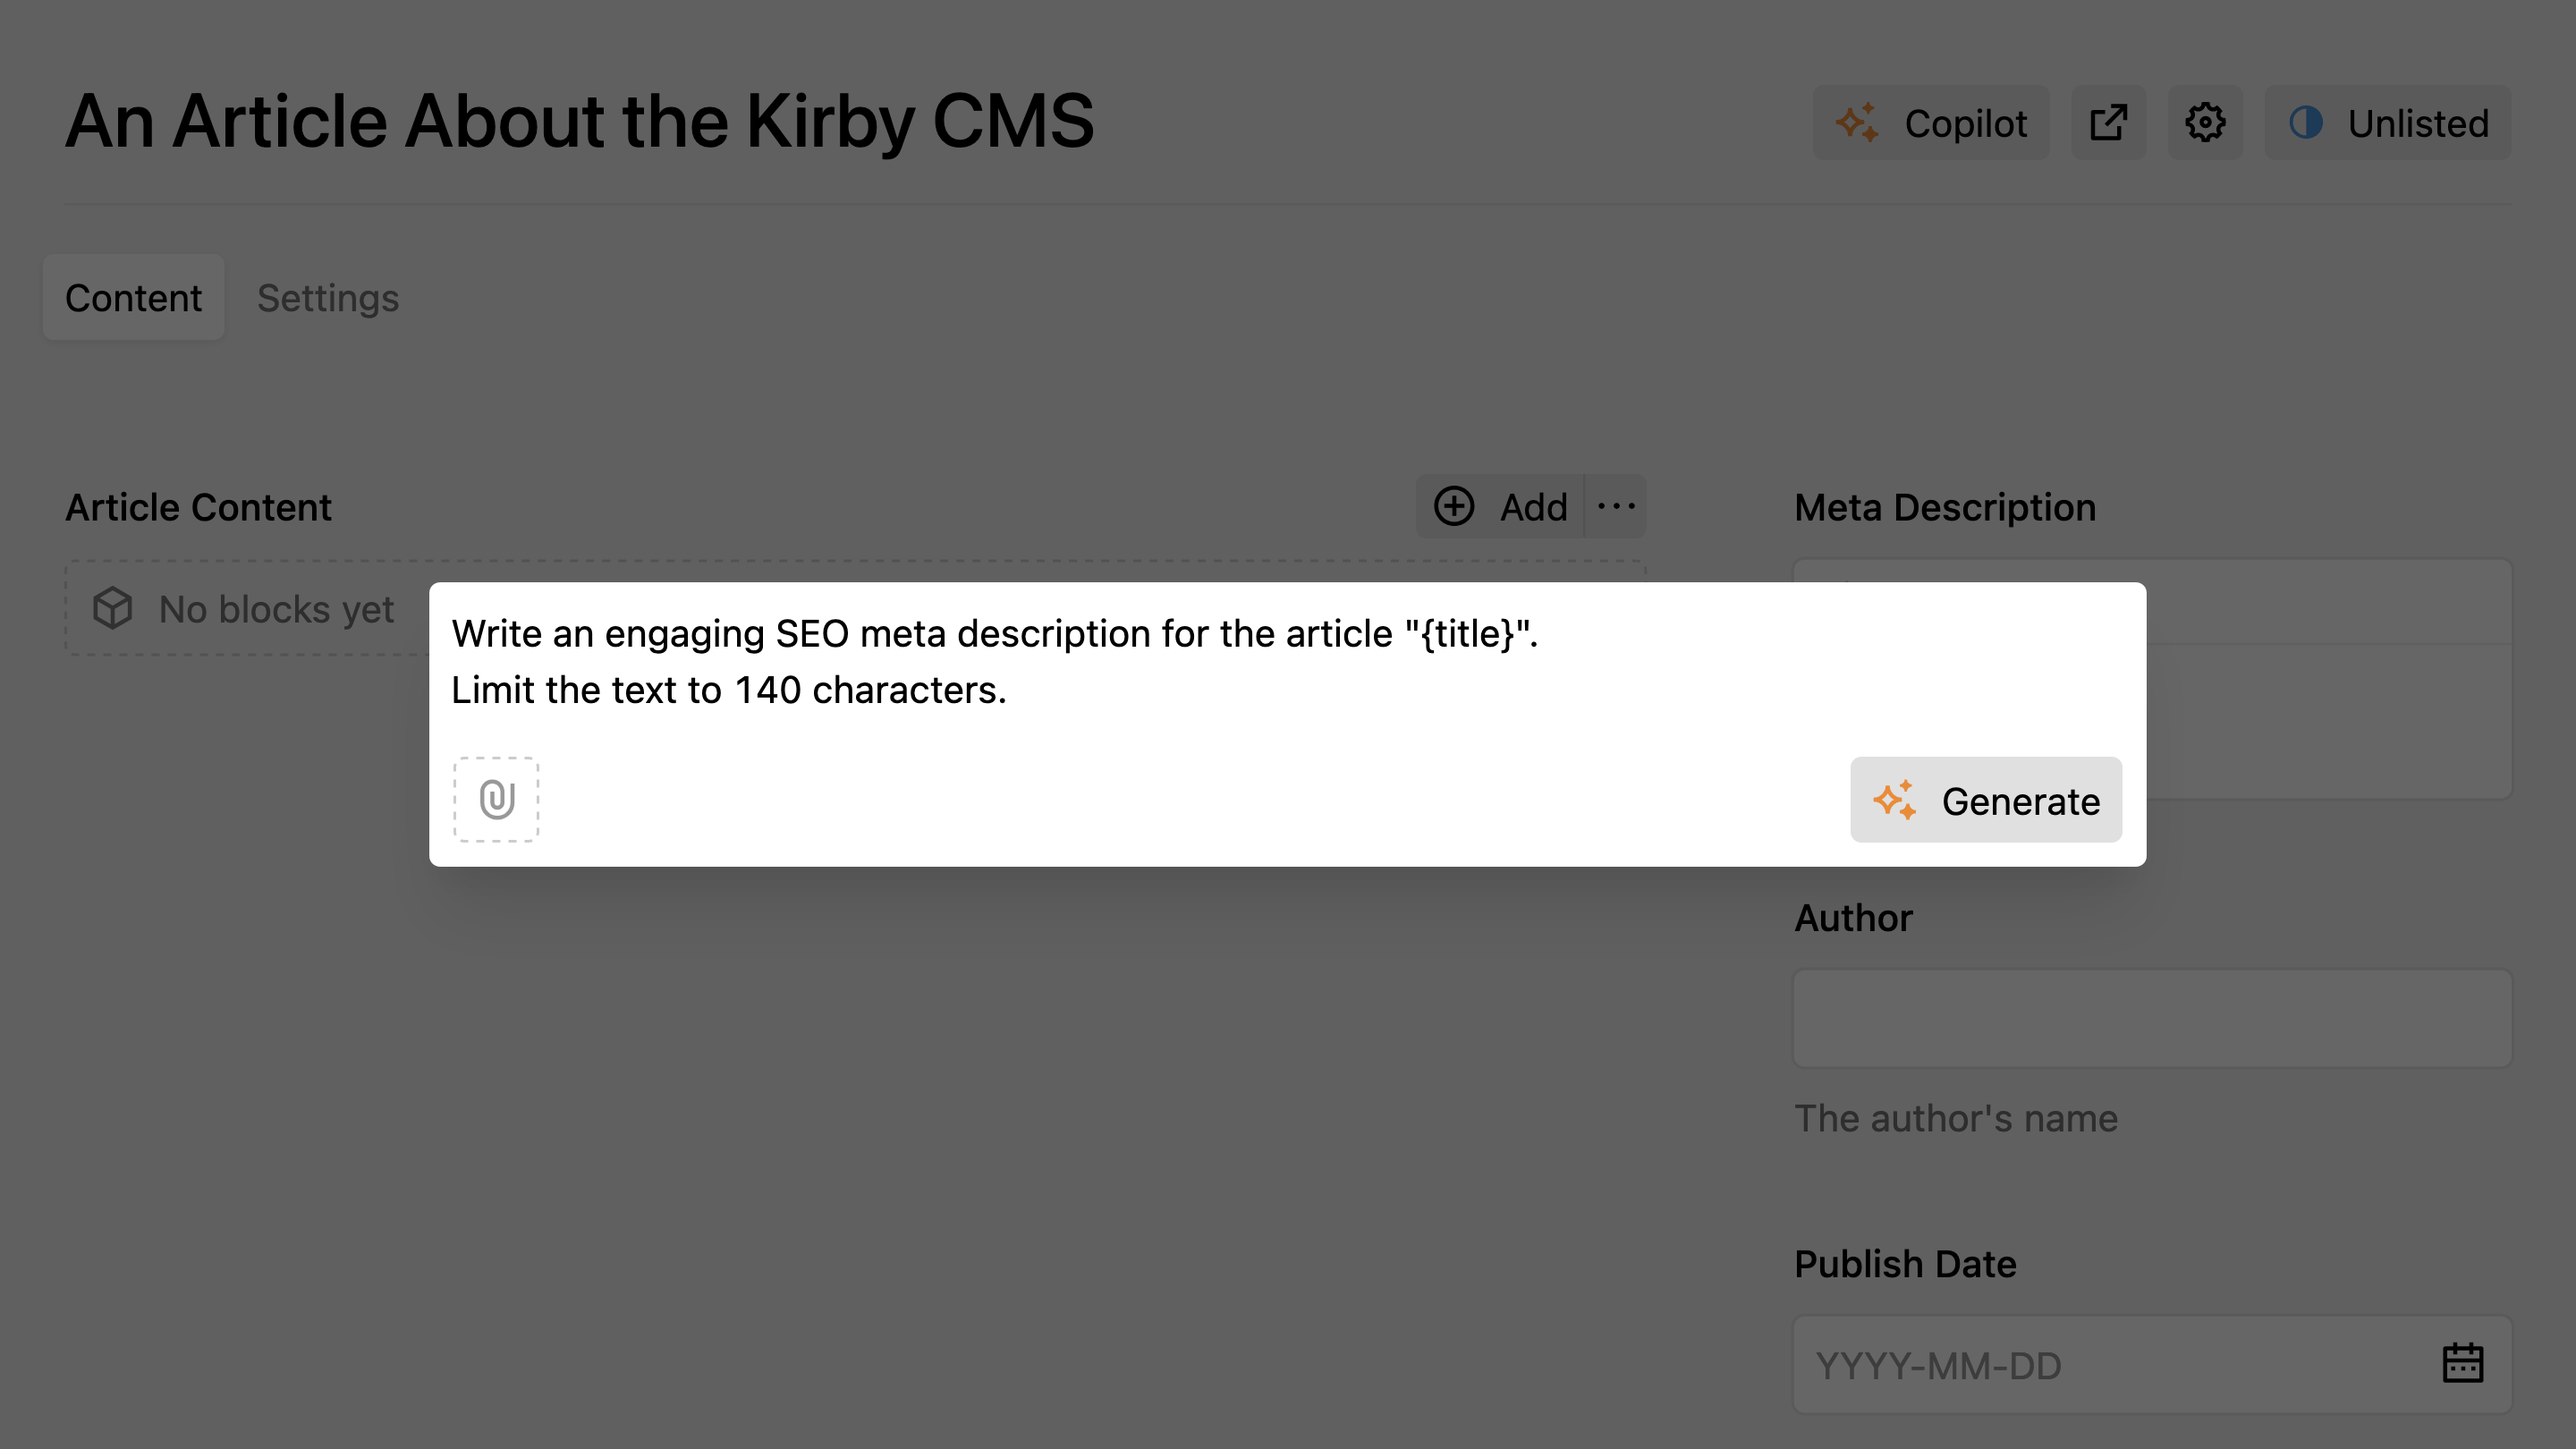
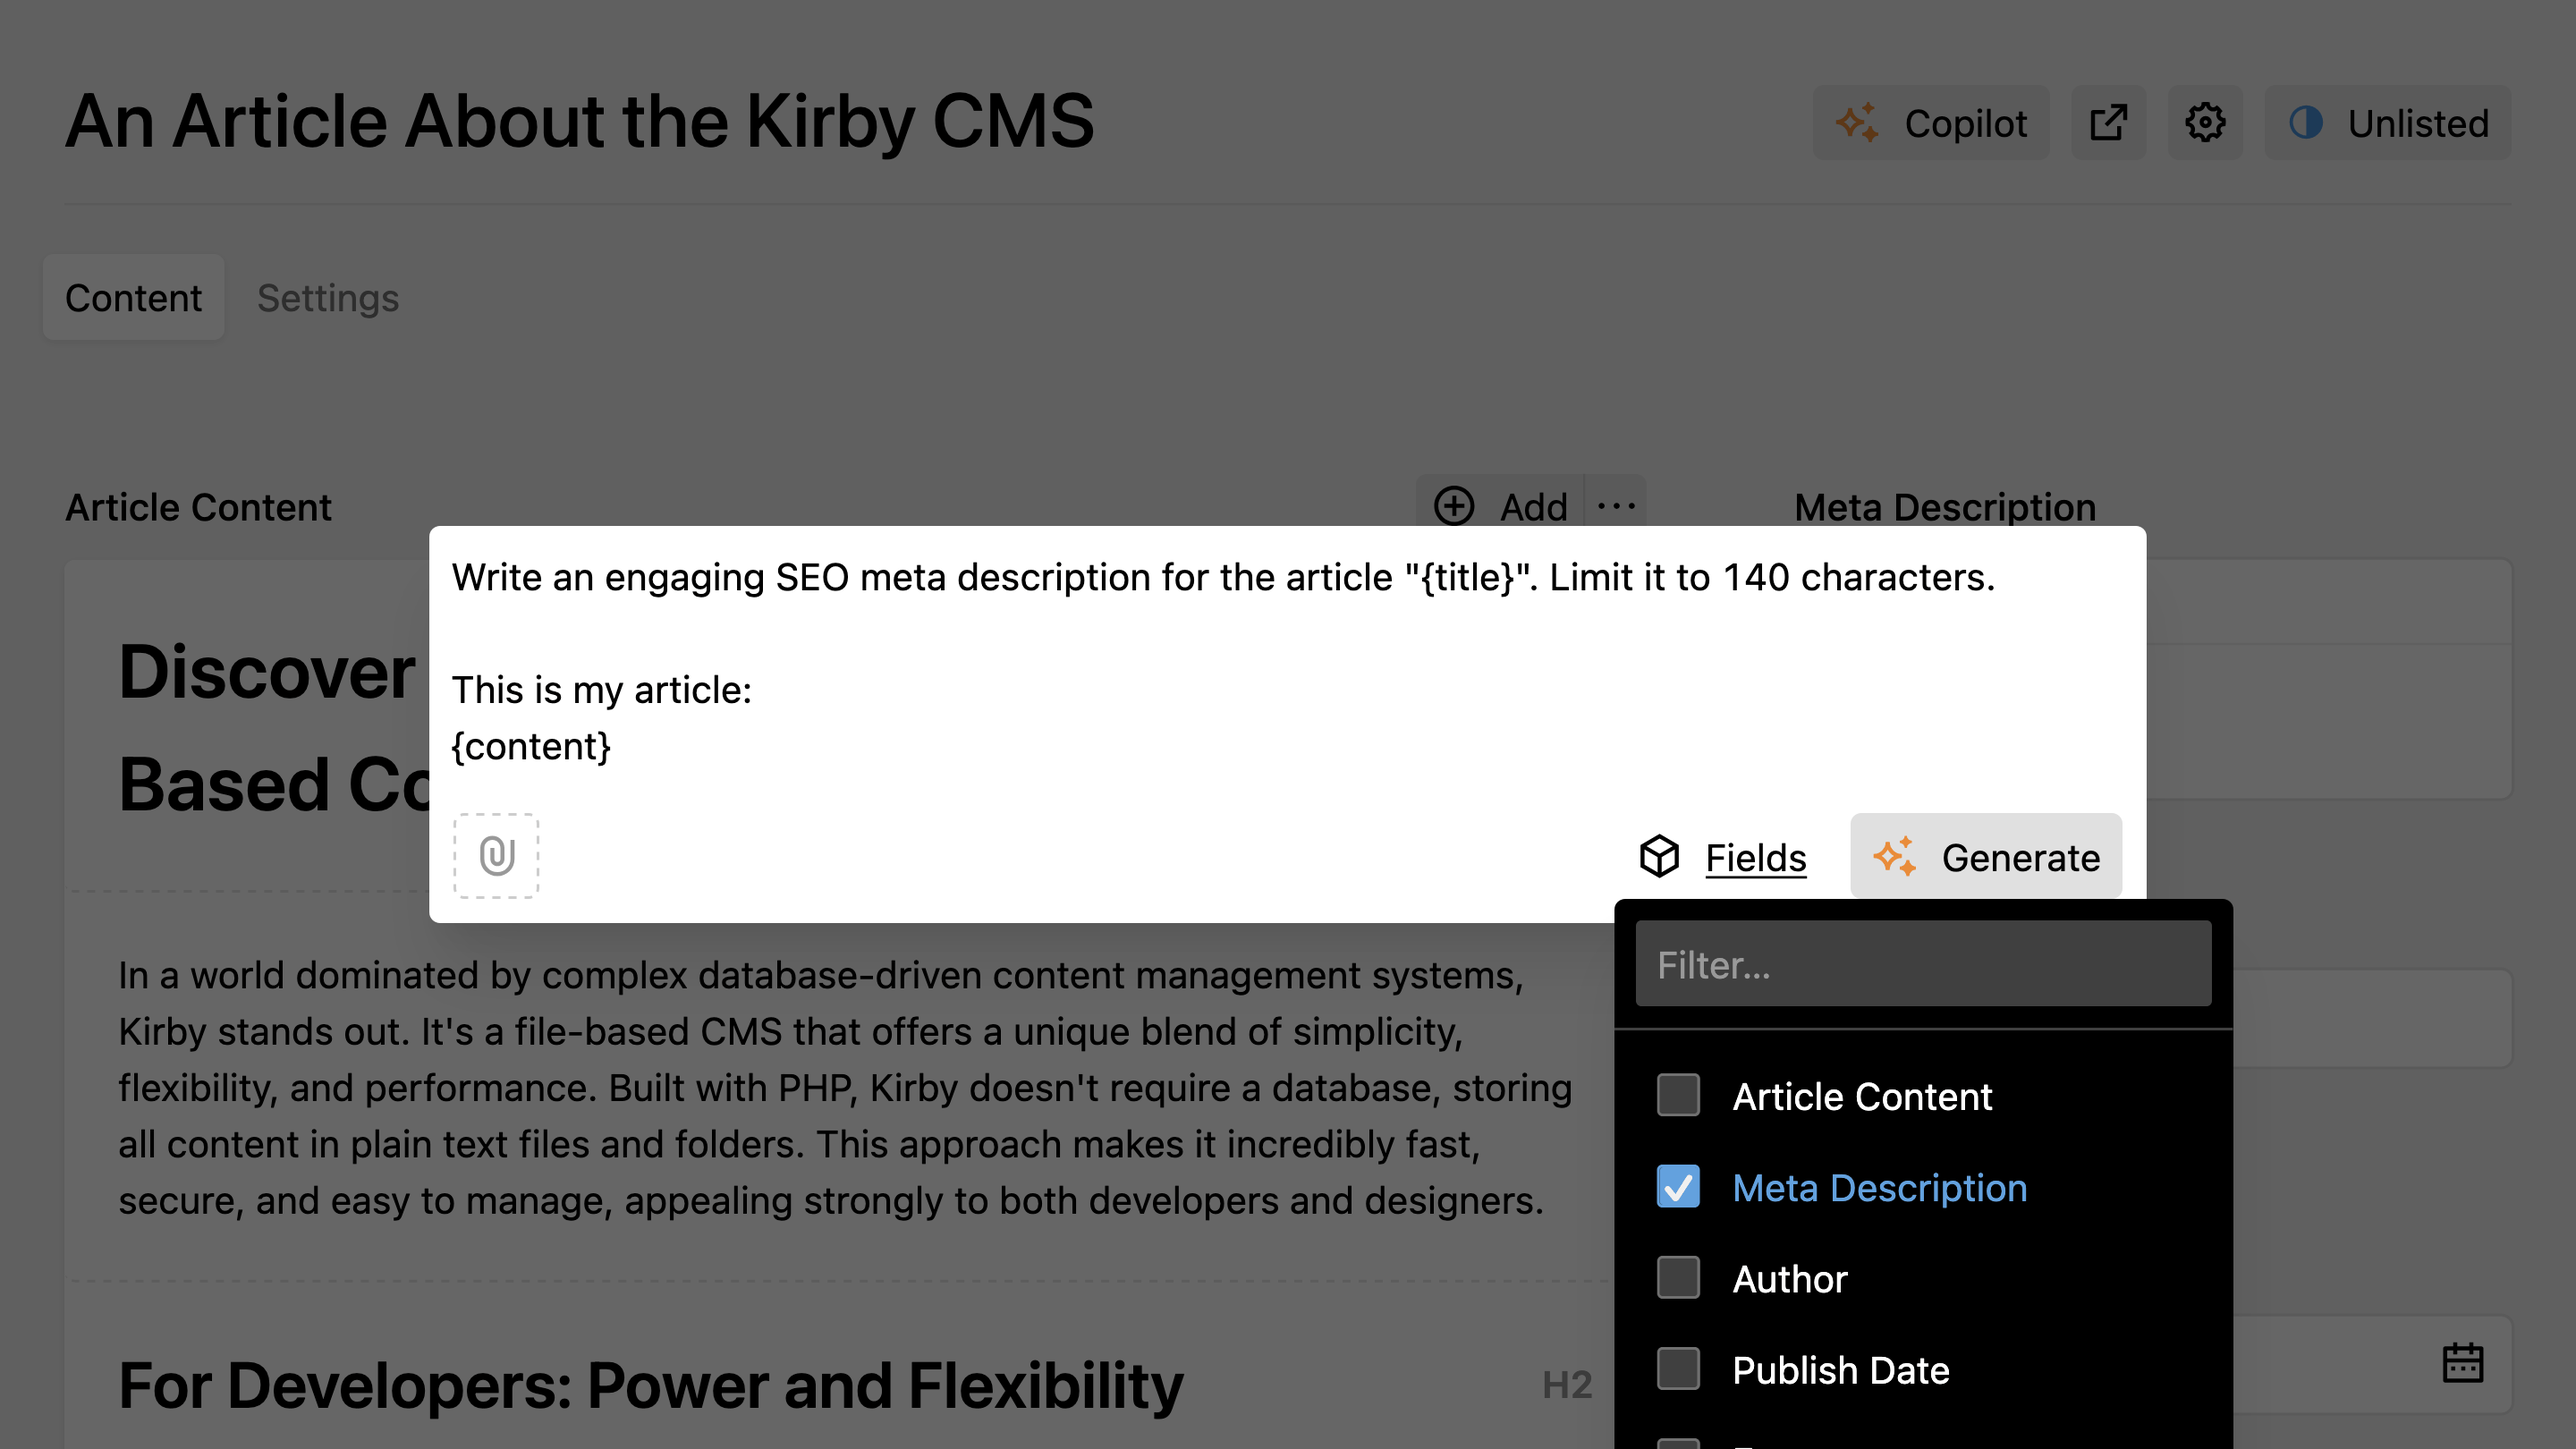
docs: enhance Copilot field context placeholders documentation

Changed region(s): [[0.0312, 0.3395, 0.875, 1.0], [0.0312, 0.9259, 0.4688, 0.9877]]

diff --git a/content/1.docs/3.copilot/3.usage/4.placeholders.md b/content/1.docs/3.copilot/3.usage/4.placeholders.md
@@ -7,11 +7,40 @@ Context is key to a good user prompt. The more context you can provide, the bett
 
 ## Placeholders in User Prompts
 
-Kirby Copilot provides all fields from the same Kirby model as placeholders in user prompts. This allows you to include additional information in the prompt. Wrap the field name in curly braces to use it as a placeholder: `{field}`.
+Kirby Copilot provides all fields from the same Kirby model as placeholders in user prompts. This allows you to include additional information in the prompt. To use a field name as a placeholder, wrap it in curly braces: `{field}`. Placeholders are replaced with the actual field values when the user submits the prompt.
 
-### Example Setup
+::tip
+If the field value is not a primitive (e.g. a string, number, or boolean), it will be encoded as JSON before being used as a placeholder. AI models are pretty good at understanding structured data, such as JSON.
+::
 
-For example, suppose your page contains a `writer` field with the main content and a `textarea` field for the meta description:
+Before the user prompt above is sent to the AI model, the placeholder `{content}` is replaced with the actual field value of the main content.
+
+::tip
+Whether you use the Copilot Panel view button, the tooltip buttons or the Copilot section, the placeholders are available in every user prompt.
+::
+
+## Examples
+
+One common use case is generating text for a specific field, such as a meta description from a page's title and main content. For instance, if your Kirby model has a `content` field, you can create a user prompt that references this field to generate a meta description:
+
+```
+Write an engaging SEO meta description for the article "{title}". Limit it to 140 characters.
+
+This is my article:
+{content}
+```
+
+### With Panel View Button
+
+The Copilot Panel view button is the easiest way to generate text for a specific field. Click on the Copilot button in the Panel view header to open the prompt dialog. The user can then select the meta description field from the dropdown menu and enter the prompt above:
+
+![Kirby Copilot prompt dialog](/img/copilot-example-seo-description-prompt.png)
+
+### With Writer/Textarea Button
+
+If the meta description field is a `writer` or `textarea` field, you can also use the [Copilot toolbar button](/docs/copilot/usage/toolbar-buttons) in the field toolbar for quick access to the Copilot prompt dialog.
+
+Suppose your page contains a `blocks` or `writer` field with the main content and a `textarea` field for the meta description:
 
 ```yaml [pages/default.yml]
 fields:
@@ -27,23 +56,15 @@ fields:
       - copilot
 ```
 
-In the example above, the only allowed button for the `textarea` field is the Copilot prompt dialog:
+In this blueprint example, the only visible button for the `textarea` field is the Copilot toolbar button. This will suggest the user to use Kirby Copilot for meta description generation:
 
 ::preview{src="/img/copilot-example-seo-description-field.png" alt="Copilot button in textarea field for SEO description"}
 ::
 
-### Accessing Field Values
+When the user clicks the Copilot button, the prompt dialog opens. The user can then enter the above prompt, and the placeholder `{content}` will be replaced with the actual content of the writer field when the prompt is sent to the AI model.
 
-When the user clicks the Copilot button, the value of the `content` field can be used as a placeholder in the user prompt to generate a better meta description. The user prompt could look like this:
+![Kirby Copilot textarea prompt dialog](/img/copilot-example-seo-description-prompt-2.png)
 
-![Kirby Copilot textarea prompt dialog](/img/copilot-example-seo-description-prompt.png)
+### With Copilot Section
 
-Before the user prompt above is sent to the AI model, the placeholder `{content}` is replaced with the actual field value of the main content.
-
-::note
 Placeholders are also available in the [Copilot Panel section](/docs/copilot/configuration/section). You could set up a Copilot section for the meta description field with a [predefined user prompt](/docs/copilot/examples/section-blueprints#predefined-user-prompt) for a smooth workflow.
-::
-
-## Encoding Field Values
-
-If the field value is not a primitive (e.g. a string, number, or boolean), it will be encoded as JSON before being used as a placeholder. AI models are pretty good at understanding structured data, such as JSON.

diff --git a/content/1.docs/3.copilot/2.configuration/2.section.md b/content/1.docs/3.copilot/2.configuration/2.section.md
@@ -3,13 +3,9 @@ title: Section Options
 description: Define the blueprint properties for the Kirby Copilot section, like the user prompt.
 ---
 
-Kirby Copilot comes in many flavors. If you want to get the most out of the plugin, you should check the Panel view button. It allows you to open the prompt dialog from anywhere in the Panel and generate content for multiple fields at once.
+Kirby Copilot comes in many flavors. If you want to get the most out of the plugin, you should check the [Panel view button](/docs/copilot/usage/view-button). It allows you to open the prompt dialog from anywhere in the Panel and generate content for multiple fields at once.
 
-Alternatively, the Copilot section is ideal for generating content for a single field. It features predefining the user prompt and more.
-
-::note
-Learn more about the Panel view button in the [Panel view button](/docs/copilot/usage/view-button) documentation.
-::
+As an alternative, the Copilot section is ideal for generating content for a single field. You can set a predefined user prompt, use the current file on file models, and customize the section to fit your needs.
 
 ## Properties
 

diff --git a/content/1.docs/3.copilot/1.getting-started/1.index.md b/content/1.docs/3.copilot/1.getting-started/1.index.md
@@ -54,9 +54,9 @@ The Kirby Copilot plugin provides two toolbar buttons:
 
 Clicking a button opens the prompt dialog where you can enter text to generate content for the field.
 
-The toolbar buttons allow you to work with the selected text or the entire field content. If any text is selected, an [additional selection menu](/docs/copilot/usage/toolbar-buttons#selected-text) will appear to choose whether to replace the selected text with the generated content or to append the generated content to the selected text.
-
 ![Kirby Copilot writer toolbar marks](/img/kirby-copilot-writer-prompt.png)
+
+The toolbar buttons allow you to work with the selected text or the entire field content. If [any text is selected](/docs/copilot/usage/toolbar-buttons#selected-text), an additional selection menu will appear to choose whether to replace the selected text with the generated content or to append the generated content to the selected text.
 
 ## Playground
 

diff --git a/content/1.docs/3.copilot/2.configuration/3.system-prompt.md b/content/1.docs/3.copilot/2.configuration/3.system-prompt.md
@@ -50,7 +50,7 @@ The response format is determined by the button that was clicked to open the Cop
 - If the prompt is sent from the `textarea` field Copilot button, the response format is set to `markdown`.
 - If the prompt is sent from the `writer` field Copilot mark, the response format is set to `text`.
 
-## Configuration
+## Customizing the System Prompt
 
 In most cases, the default system prompt is sufficient. However, you can customize the system prompt in your global Kirby configuration:
 
